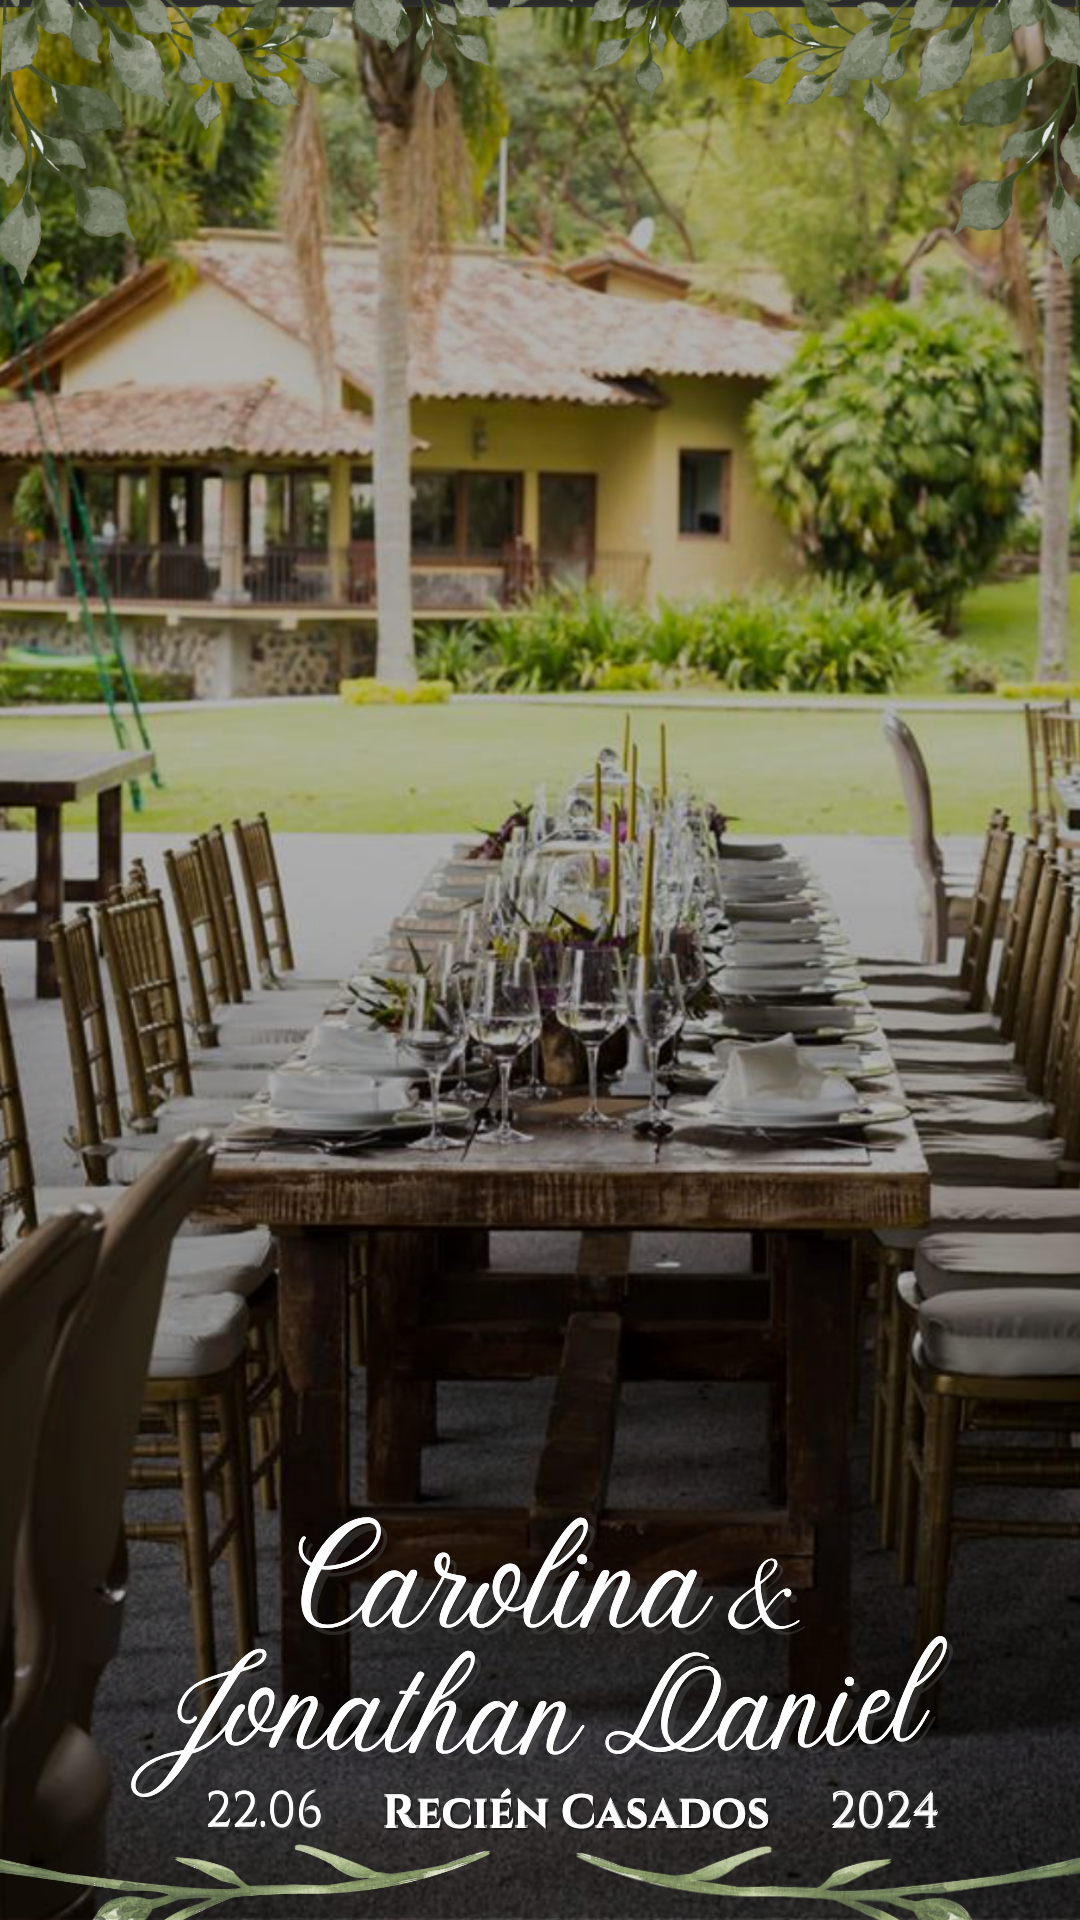
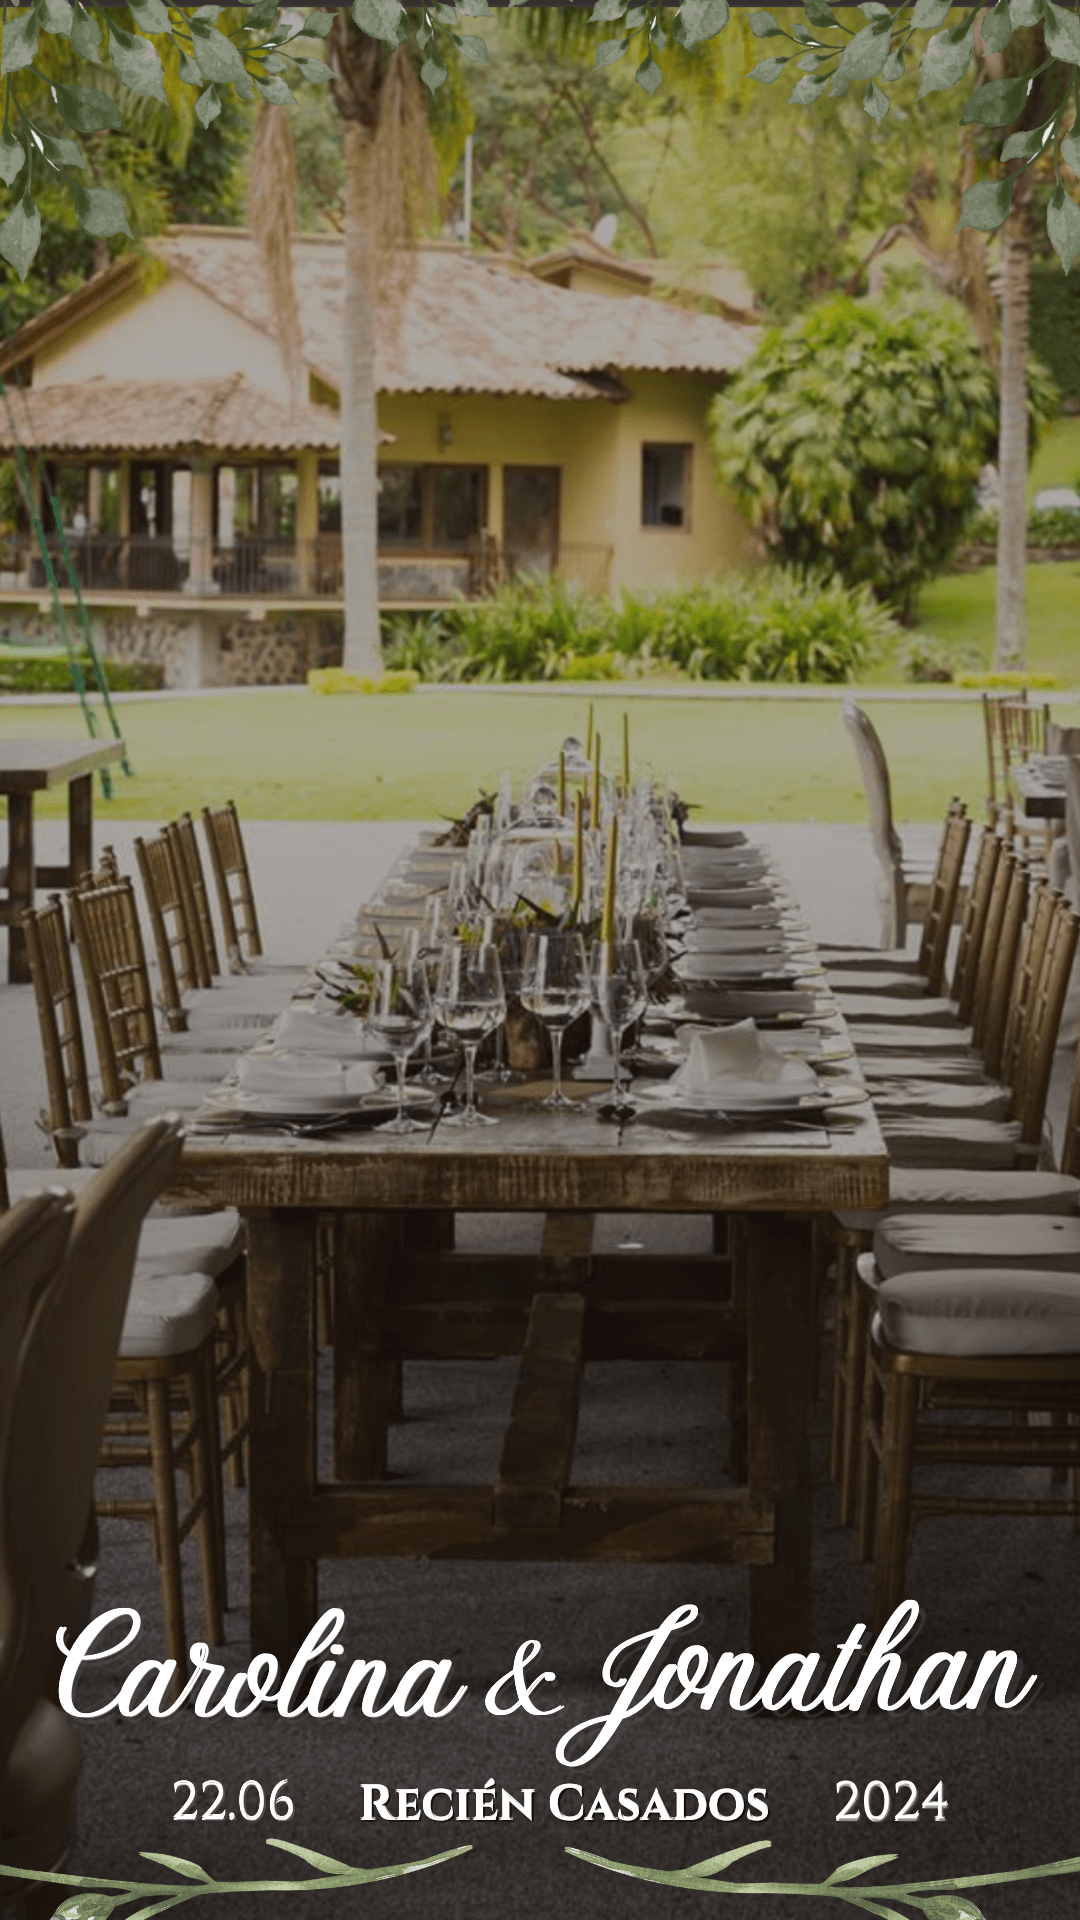
ajuste cliente 2

diff --git a/javascript.js b/javascript.js
@@ -4,9 +4,13 @@ const playPause = document.getElementById("play");
 function abrir() {
   document.getElementById("sobre-arriba").classList.add("animate__fadeOutUp");
   document.getElementById("sobre-abajo").classList.add("animate__slideOutDown");
-  document.getElementById("logo").classList.remove("animate__infinite");
+  document.getElementById("logo").classList.add("hide");
 
   document.getElementById("parent-div").classList.remove("test-class");
+  document.getElementById("parent-div").classList.remove("bg-dark-black");
+
+  document.getElementById("parent-div").classList.add("bg-logo");
+
   document.getElementsByTagName("body")[0].classList.remove("avoiding-scroll");
   audio.play();
 

diff --git a/index.html b/index.html
@@ -101,7 +101,6 @@
               <h2 class="p-0 m-0 display-33">Carolina</h2>
 
               <h2 class="p-0 m-0 display-33">&</h2>
-              <!-- <h2 class="p-0 m-0 display-33">Diana</h2> -->
               <h2 class="p-0 m-0 display-33">
                 <span class="font-dancing">J</span>honatan
               </h2>
@@ -118,7 +117,7 @@
             id="audio"
             controls
             autoplay
-            src="./assets/audio/Y2meta.app - Misterio _ Lyric Video Oficial (128 kbps).mp"
+            src="./assets/audio/Y2meta.app - Misterio _ Lyric Video Oficial (128 kbps).mp3"
           ></audio>
         </div>
       </section>

diff --git a/styles.css b/styles.css
@@ -101,6 +101,11 @@ url("./assets/img/andre-jackson-IXLS59CTgDE-unsplash\ 21.35.31.jpg"); */
   background-position: center;
   background-size: cover;
 }
+.bg-logo {
+  background-image: url("./assets/img/portada-logo.jpg");
+  background-position: center;
+  background-size: cover;
+}
 .pb-5rem {
   padding-bottom: 3rem;
 }
